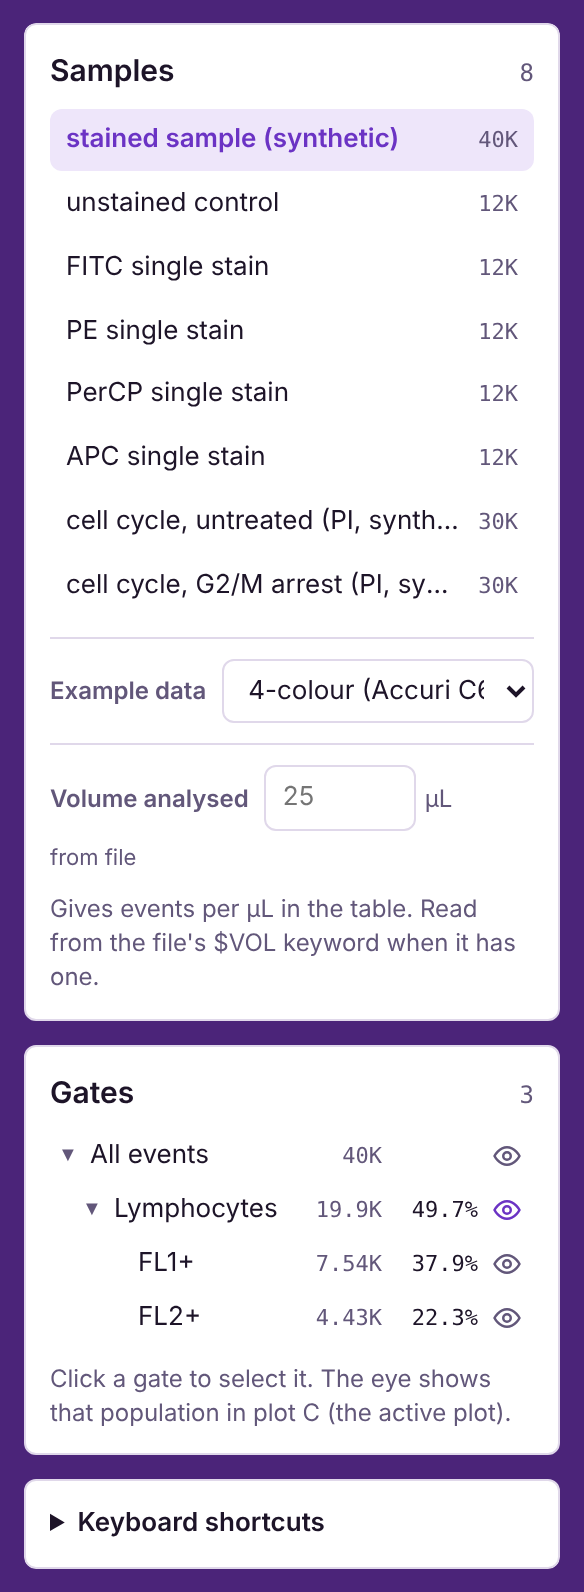
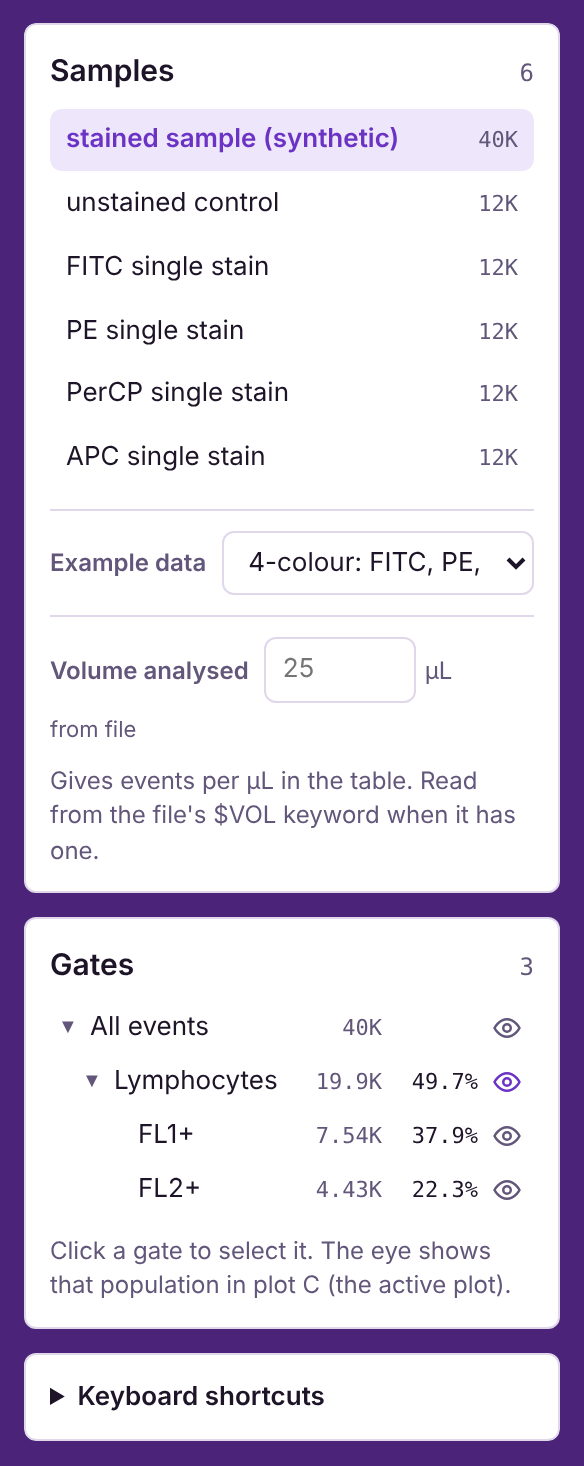
SpectraFree 1.4.1: split the 4-colour and cell-cycle examples
- 4-colour: FITC, PE, PerCP, APC (stained, unstained, 4 single stains)
- Cell cycle: PI (untreated, G2/M arrest), opening on the Cell cycle tab
  with ungated plots that auto-gating reuses
- Tests, screenshots and docs updated

Claude-Session: https://claude.ai/code/session_01BGeeNtBgVLwMBLL4HCioQf

Changed region(s): [[0.0308, 0.0307, 0.9555, 1.0], [0.524, 0.7674, 0.5548, 0.8288], [0.5548, 0.7367, 0.5856, 0.7674]]

diff --git a/index.html b/index.html
@@ -378,7 +378,8 @@ table.labels input{width:min(260px,100%)}
         <label for="exampleSel">Example data</label>
         <select id="exampleSel">
           <option value="" disabled>Your files</option>
-          <option value="accuri">4-colour (Accuri C6 style)</option>
+          <option value="accuri">4-colour: FITC, PE, PerCP, APC</option>
+          <option value="cellcycle">Cell cycle: PI</option>
           <option value="tcell">11-colour T-cell activation</option>
         </select>
       </div>
@@ -496,7 +497,7 @@ table.labels input{width:min(260px,100%)}
       <div class="field"><label for="ccH">Doublet check against</label><select id="ccH"></select></div>
       <div class="field"><label for="ccParent">Start from</label><select id="ccParent"></select></div>
     </div>
-    <p class="sub ccintro">Auto-gating first keeps single cells: clumps of two cells have twice the DNA area but not twice the height. It then fits the DNA histogram with a G0/G1 peak, a G2/M peak at about twice the DNA, and S phase between them. It adds gates and two plots so you can check the result. To try it, pick <strong>Example: cell cycle, untreated</strong> or <strong>G2/M arrest</strong> in the sample list.</p>
+    <p class="sub ccintro">Auto-gating first keeps single cells: clumps of two cells have twice the DNA area but not twice the height. It then fits the DNA histogram with a G0/G1 peak, a G2/M peak at about twice the DNA, and S phase between them. It adds gates and two plots so you can check the result. To try it, choose <strong>Cell cycle: PI</strong> under <strong>Example data</strong> in the sidebar.</p>
     <div id="ccOut"></div>
   </section>
       </div>
@@ -2505,6 +2506,10 @@ function makeExamples(){
     makeTube('PE', 12000, 13, 'Example: PE single stain'),
     makeTube('PerCP', 12000, 14, 'Example: PerCP single stain'),
     makeTube('APC', 12000, 15, 'Example: APC single stain'),
+  ];
+}
+function makeCellCycleExamples(){
+  return [
     makeCellCycleTube('untreated', 30000, 21, 'Example: cell cycle, untreated (PI, synthetic)'),
     makeCellCycleTube('arrest', 30000, 22, 'Example: cell cycle, G2/M arrest (PI, synthetic)'),
   ];
@@ -3048,7 +3053,7 @@ $('#wsFile').addEventListener('change', e => { const f = e.target.files[0]; e.ta
 
 
 /* ---------------- Batch reports: PDF and PowerPoint ---------------- */
-const APP_VERSION = '1.4.0';
+const APP_VERSION = '1.4.1';
 // One report page for the current sample: plots on the left, statistics on the right.
 // header=false leaves the title out (the PowerPoint slide has it as editable text instead).
 function composeReportPage(W, H, opts = {}){
@@ -3565,7 +3570,19 @@ function setupTCellExample(){
   C.chs = candidates(s0); C.pop = 'auto';
   if (s0.spill){ const {names, M} = s0.spill; names.forEach((a, i) => names.forEach((b, j) => { if (i !== j && M[i][j]) C.S[a + '|' + b] = M[i][j]; })); C.on = true; }
 }
-const EXAMPLE_SETS = {accuri: setupAccuriExample, tcell: setupTCellExample};
+// Cell cycle: no gates yet, so the trainee runs the auto-gating; plots B and C are the ones auto-gating reuses
+function setupCellCycleExample(){
+  state.samples = makeCellCycleExamples(); state.cur = 0; state.nextId = 1;
+  const A = addPanel({pop: 'all'}); if (A){ Object.assign(A, {xn: 'FSC-A', xs: 'log', yn: 'SSC-A', ys: 'log'}); A.syncControls(); }
+  const B = addPanel({pop: 'all'}); if (B){ Object.assign(B, {xn: 'FL2-A', xs: 'lin', yn: 'FL2-H', ys: 'lin', role: 'cc-pulse'}); B.syncControls(); }
+  const C = addPanel({pop: 'all'}); if (C){ Object.assign(C, {xn: 'FL2-A', xs: 'lin', y2: 'FL2-H', yn: HIST, role: 'cc-hist'}); C.syncControls(); }
+  state.comp.chs = candidates(state.samples[0]);
+}
+const EXAMPLE_SETS = {accuri: setupAccuriExample, cellcycle: setupCellCycleExample, tcell: setupTCellExample};
+const EXAMPLE_MSG = {
+  accuri: 'Loaded the 4-colour example: a stained sample (FITC, PE, PerCP, APC), an unstained control and four single stains. Try Auto-compensate in the Compensation tab.',
+  cellcycle: 'Loaded the cell-cycle example: untreated and G2/M-arrested cells stained with PI. Open the Cell cycle tab and press Run auto-gating.',
+  tcell: 'Loaded the 11-colour T-cell activation example: stimulated and unstimulated tubes, an unstained control and 11 single stains. Compensation is on, using the matrix stored in the files. Try turning it off, or press Auto-compensate in the Compensation tab and compare.'};
 function loadExampleSet(kind){
   if (!EXAMPLE_SETS[kind]) kind = 'accuri';
   hist.busy++;
@@ -3576,7 +3593,7 @@ function loadExampleSet(kind){
     state.comp = {on: false, chs: [], S: {}, ctrl: {}, unst: null, pop: 'auto'};
     EXAMPLE_SETS[kind]();
     state.exampleSet = kind;
-    detectControls();
+    if (kind !== 'cellcycle') detectControls(); // the PI tubes have no compensation controls
     $('#autoReport').hidden = true;
     setCurrent(0);
   } finally { hist.busy--; }
@@ -3594,9 +3611,9 @@ $('#exampleSel').addEventListener('change', e => {
     toast('Generating the example data…');
     setTimeout(() => {
       loadExampleSet(kind);
-      showMsg(kind === 'tcell'
-        ? 'Loaded the 11-colour T-cell activation example: stimulated and unstimulated tubes, an unstained control and 11 single stains. Compensation is on, using the matrix stored in the files. Try turning it off, or press Auto-compensate in the Compensation tab and compare.'
-        : 'Loaded the 4-colour example data.', true);
+      clearTimeout(toastTimer); $('#toast').hidden = true;
+      if (kind === 'cellcycle') setTab('cc');
+      showMsg(EXAMPLE_MSG[kind], true);
     }, 30);
   };
   if (state.samples.some(x => !x.example))

diff --git a/docs/user-guide.md b/docs/user-guide.md
@@ -82,9 +82,9 @@ Type a new number into the FL1-A → FL2-A cell, for example 20. The FL1+ popula
 
 ## 4. Cell-cycle analysis
 
-1. Choose **Example: cell cycle, untreated (PI, synthetic)**.
-2. In the **Cell cycle** tab, the DNA channel is set to FL2-A · PI and the doublet check to FL2-H. Press **Run auto-gating**.
-3. Two plots appear:
+1. In the sidebar, set **Example data** to **Cell cycle: PI**. Two tubes load (untreated and G2/M arrest) and the **Cell cycle** tab opens. Plot B shows DNA area against height and plot C the DNA histogram, both ungated so you can see the raw data first.
+2. The DNA channel is set to FL2-A · PI and the doublet check to FL2-H. Press **Run auto-gating**.
+3. Plots B and C are gated:
    - **DNA area against height**: single cells form a straight diagonal band. Clumps of two cells sit below it, because they have twice the DNA area but not twice the height. The **Singlets** gate keeps the band.
    - **DNA histogram** of single cells, with the fitted G0/G1 (green), S (amber) and G2/M (blue) components and the model total (dashed).
 4. Read the results: about 56% G0/G1, 21% S and 14% G2/M. Check the quality panel: a G2/G1 ratio of 1.96 and a G0/G1 CV of 3.6% are good.
@@ -152,7 +152,7 @@ Both make ordinary gates: adjust them with the handles, or undo.
 
 ## 8. A multicolour experiment: T-cell activation
 
-In the sidebar, set **Example data** to **11-colour T-cell activation**. Fourteen tubes load: stimulated and unstimulated samples, an unstained control, and one single stain for each of the 11 dyes (HLA-DR BUV395, CD3 BUV496, CD25 BUV615, CD137 BV421, CD69 BV480, CD8 BV750, CD4 FITC, viability 7-AAD, CD38 PE, CD134 PE-Cy7, CD154 APC).
+In the sidebar, set **Example data** to **11-colour T-cell activation**. (To get back to the exercises in sections 2 and 3, choose **4-colour: FITC, PE, PerCP, APC**.) Fourteen tubes load: stimulated and unstimulated samples, an unstained control, and one single stain for each of the 11 dyes (HLA-DR BUV395, CD3 BUV496, CD25 BUV615, CD137 BV421, CD69 BV480, CD8 BV750, CD4 FITC, viability 7-AAD, CD38 PE, CD134 PE-Cy7, CD154 APC).
 
 ### 8.1 Follow the gating strategy
 The eight plots are a complete strategy, top to bottom: **Lymphocytes** (FSC/SSC) → **Singlets** (FSC-A/FSC-H) → **Live CD3+** (7-AAD against CD3) → **CD4+** and **CD8+** → four quadrant plots of activation markers. Open the gate tree in the sidebar to see the same hierarchy with counts.

diff --git a/README.md b/README.md
@@ -111,16 +111,23 @@ Online or offline with your own data. Export FCS files from your cytometer softw
 
 ## Example data
 
-Eight synthetic tubes load on first open, labelled **Example**. They are generated in the browser with known answers, so they double as teaching material:
+Three synthetic experiments are built in, generated in the browser with known answers, so they double as teaching material. Switch between them with **Example data** in the sidebar. The 4-colour experiment loads on first open.
+
+**4-colour: FITC, PE, PerCP, APC** (6 tubes)
 
 | Tube | What it teaches |
 |---|---|
 | Stained sample | Scatter gating, nested gates, FITC and PE populations, the effect of spillover |
 | Unstained + four single stains (FITC, PE, PerCP, APC) | Building a compensation matrix by hand or with Auto-compensate |
-| Cell cycle, untreated (PI) | Doublet discrimination and a normal cell-cycle profile |
-| Cell cycle, G2/M arrest (PI) | A drug-arrested profile for comparison |
 
-A second set, **11-colour T-cell activation**, is one click away in the sidebar (**Example data**). It follows a typical 5-laser activation panel:
+**Cell cycle: PI** (2 tubes, opens on the Cell cycle tab, ready for Run auto-gating)
+
+| Tube | What it teaches |
+|---|---|
+| Untreated | Doublet discrimination and a normal cell-cycle profile |
+| G2/M arrest | A drug-arrested profile for comparison |
+
+**11-colour T-cell activation** (14 tubes) follows a typical 5-laser activation panel:
 
 | Laser | Marker | Dye |
 |---|---|---|

diff --git a/CONTRIBUTING.md b/CONTRIBUTING.md
@@ -60,7 +60,7 @@ Everything is in `index.html`, in this order:
 | `Export and plot menus` | `openMenu`, the Export menu, the right-click plot menu |
 | `Plot management` | Adding and removing plots |
 | `Sidebar` / `Tabs` / `Theme` / `Keyboard shortcuts` / `Autosave` | Sample list, gate tree, active plot (`ui`, `activePanel`), tab switching, theme button, tool keys, `scheduleAutosave` / `offerRestore` |
-| `Example sets` / `Start` | `setupAccuriExample`, `setupTCellExample` (gates and plots), `loadExampleSet`, start-up |
+| `Example sets` / `Start` | `setupAccuriExample`, `setupCellCycleExample`, `setupTCellExample` (gates and plots), `loadExampleSet`, start-up |
 
 A few conventions:
 - **Per-plot view settings** (`PANEL_VIEW`: population, channels, scales, zoom ranges, style, backgate, overlays) go through `panelView()` for undo and workspaces. Add new view settings there and in `cleanWorkspace`.

diff --git a/CHANGELOG.md b/CHANGELOG.md
@@ -2,6 +2,11 @@
 
 All notable changes to SpectraFree are recorded here. The format follows [Keep a Changelog](https://keepachangelog.com/en/1.1.0/), and the project uses [semantic versioning](https://semver.org/).
 
+## [1.4.1] - 2026-11-19
+
+### Changed
+- The original example data is now two experiments: **4-colour: FITC, PE, PerCP, APC** (stained, unstained and four single stains; loads on first open) and **Cell cycle: PI** (untreated and G2/M arrest). The cell-cycle set opens on the Cell cycle tab with ungated DNA area/height and histogram plots, which auto-gating then reuses.
+
 ## [1.4.0] - 2026-11-19
 
 ### Added
